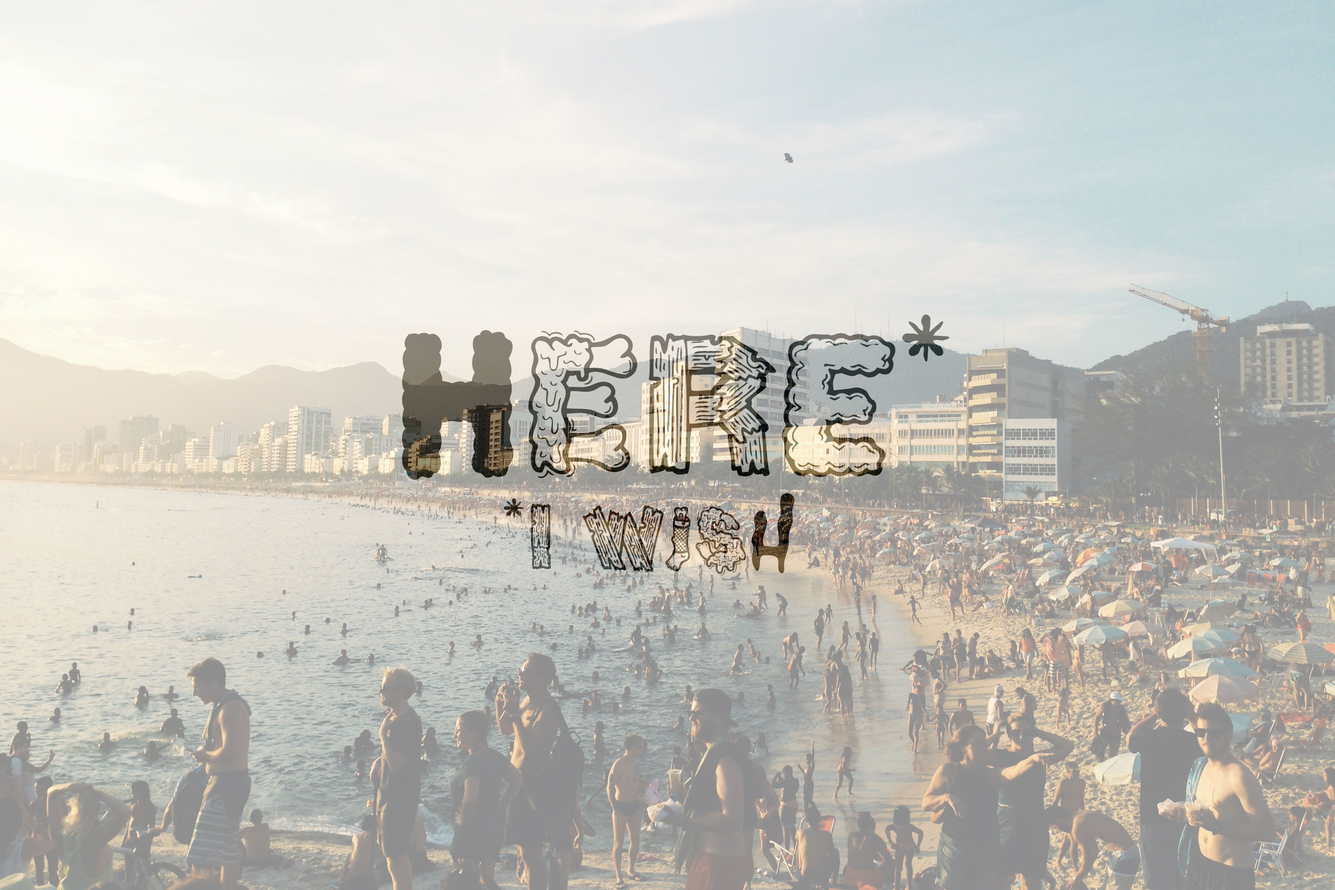
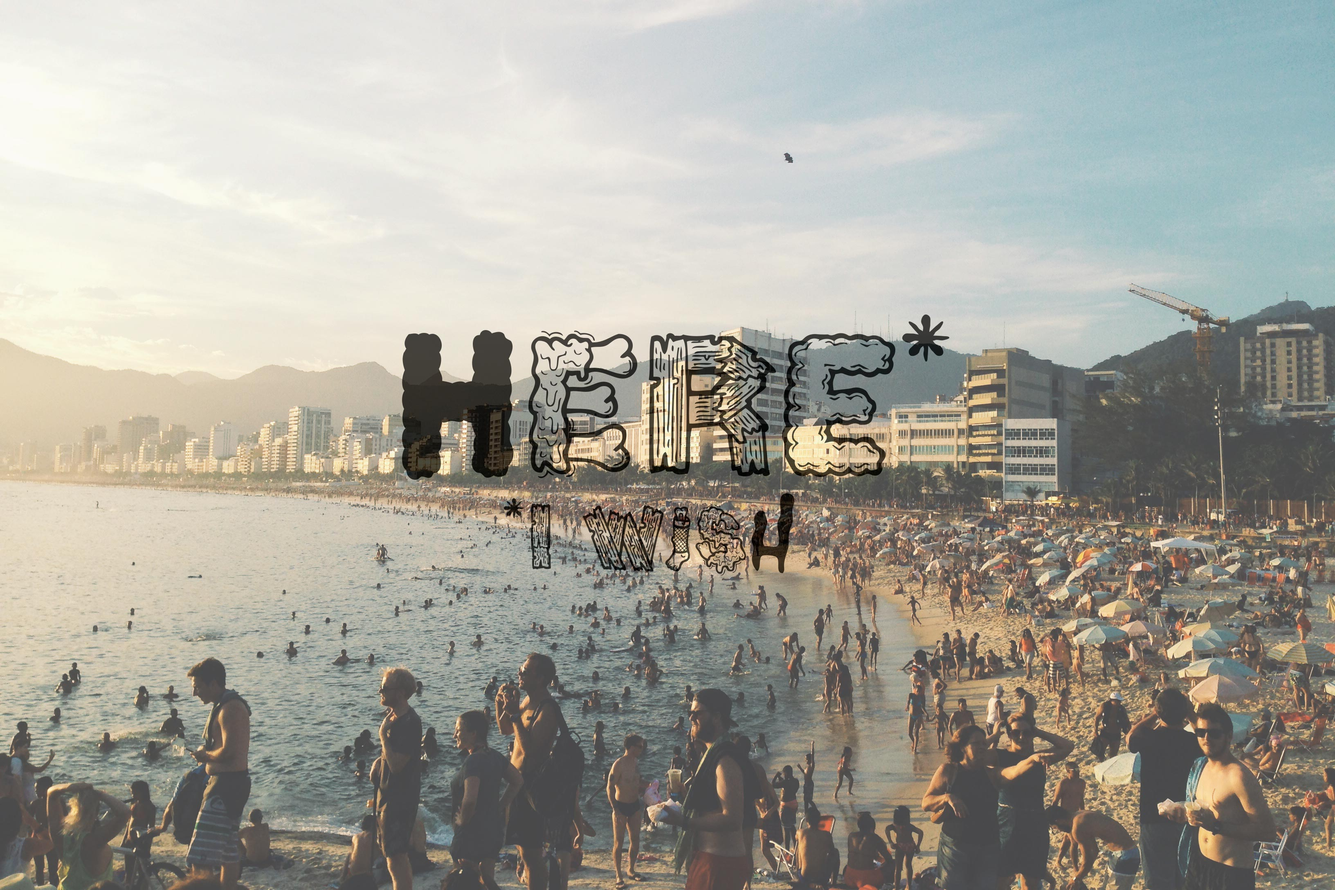
boom

diff --git a/client/views/pages/memex/memex.html b/client/views/pages/memex/memex.html
@@ -1,0 +1,27 @@
+<template name="memex">
+  <!-- Hero -->
+  <div class="block--hero" style="background-image: url('/index/memex.png');  background-repeat: repeat; background-size: 496px 196px; background-position: center -50px;"></div>
+  <!-- /Hero -->
+
+  <!-- Intro -->
+  <div class="block">
+    <div class="container">
+      <div class="block__text">
+        <h1>I'm a designer/developer based in London, UK. So less of sun, sea and sand you see above and more of the rain, bricks and concrete you see in London. It's lovely though, honest <span class="u-text--orange">&ndash; swear down fam.</span></h1>
+
+        <p class="u-text-large">I'm a recent graduate from Central St Martins where I studied graphic design. Currently I work as a hybrid designer at <a href="http://ustwo.com">ustwo</a>. For me, what I do is not just about making a project look visually attractive, but shaping exactly how and why it functions in the way it does. It's lead me to naturally develop an extremely iterative process that usually involves a lot of rapid prototyping <span class="u-text--grey">&ndash; I find the majority of what I learn about a problem and it's solution comes from building quick prototypes #bigfan</span>.</p>
+
+        <p class="u-text-large">I love learning about new things. I decided it was time to be proactive about it and &ndash; you know &ndash; learn some stuff. So, I'm learning Portuguese very slowly, going to more talks about design/tech and trying to pick up some new skills along the way <span class="u-text--grey">&ndash; maybe even make my own typeface.</span></p>
+
+        <p class="u-text-large">I'm always up for a side project, collaboration or the odd freelance project. So if you got an idea you think we could team up on <span class="u-text--grey">&ndash; or just feel like a little chat &ndash;</span> give me a <a href="mailto:hey@tombates.co">shout</a>.</p>
+
+        <p class="u-text--grey info-short">P.S. Writing these things sucks. Oooo, almost forgot. The photo was taken in Rio earlier this year. <span class="u-text--orange">&ndash; noice™.</span></p>
+      </div>
+    </div>
+  </div>
+  <!-- /Intro -->
+
+  <!-- Hero -->
+  <div class="block--stripe" style="background-image: url('/index/memex.png');  background-repeat: repeat; background-size: 328px 131px; background-position: center 0px;"></div>
+  <!-- /Hero -->
+</template>

diff --git a/client/views/pages/index/index.html b/client/views/pages/index/index.html
@@ -19,7 +19,7 @@
     <!-- /Hacking Ants -->
 
     <!-- Fog -->
-    <div class="block--image" style="background-image: url('/index/memex.png');">
+    <div class="block--image" style="background-image: url('/index/memex.png');  background-repeat: repeat; background-size: 496px 196px; background-position: center -50px;">
       <div class="container">
         <div class="block__desc">
           <h2 class="h2">
@@ -30,7 +30,7 @@
             &ldquo;Memex&rdquo; is a concept. It's an idea loosely based upon Vannevar Bush's description of his hypothetical proto-hypertext system from 1945. It's a project that I was thinking about for a long time and had to explore before I could move on to anything else.
           </p>
 
-          <a href="#" class="btn btn--purple">Read case study</a>
+          <a href="{{ pathFor 'memex' }}" class="btn btn--purple">Read case study</a>
         </div>
       </div>
     </div>

diff --git a/client/stylesheets/components/_block.scss b/client/stylesheets/components/_block.scss
@@ -36,6 +36,13 @@
   }
 }
 
+.block--stripe {
+  @extend .block--image;
+  @include pad(0px);
+  position: relative;
+  height: 65px;
+}
+
 .block--border {
   @extend .block;
   border-top: 1px solid tint($off-black, 95%);

diff --git a/lib/router.js b/lib/router.js
@@ -16,6 +16,10 @@ Router.map(function() {
   this.route('information', {
     path: "/information"
   });
+
+  this.route('memex', {
+    path: "/memex"
+  });
 });
 /* ==================================== */
 
